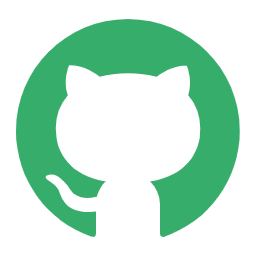
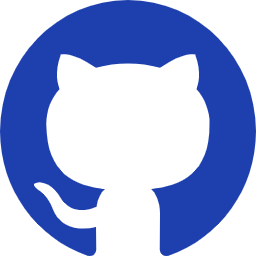
feat: 添加主题切换功能并更新UI样式
为应用添加主题切换功能，包括默认主题配置和主题切换逻辑
更新全局样式和组件颜色以匹配新主题
添加设置存储用于管理主题偏好

diff --git a/src/assets/themes/default.ts b/src/assets/themes/default.ts
@@ -1,0 +1,275 @@
+import type { GlobalThemeOverrides } from 'naive-ui'
+
+const themeOverrides: GlobalThemeOverrides = {
+  common: {
+    primaryColor: '#1E40AF',
+    primaryColorHover: '#1D4ED8',
+    primaryColorPressed: '#1E3A8A',
+    successColor: '#16A34A',
+    warningColor: '#D97706',
+    errorColor: '#DC2626',
+    infoColor: '#0EA5E9',
+
+    baseColor: '#F9FAFB',
+    bodyColor: '#F3F4F6',
+    cardColor: '#FFFFFF',
+    modalColor: '#FFFFFF',
+    popoverColor: '#FFFFFF',
+    tableColor: '#FFFFFF',
+    inputColor: '#FFFFFF',
+
+    textColorBase: '#111827',
+    textColor1: '#1F2937',
+    textColor2: '#374151',
+    textColor3: '#6B7280',
+    placeholderColor: '#9CA3AF',
+
+    dividerColor: '#E5E7EB',
+    borderColor: '#D1D5DB',
+    scrollbarColor: '#9CA3AF',
+    scrollbarColorHover: '#6B7280'
+  },
+
+  Button: {
+    textColor: '#374151',
+    textColorHover: '#374151',
+    textColorPressed: '#374151',
+    textColorDisabled: '#374151',
+    colorPrimary: '#1E40AF',
+    colorHoverPrimary: '#1D4ED8',
+    colorPressedPrimary: '#1E3A8A',
+    colorDisabled: '#9CA3AF',
+    borderRadius: '6px'
+  },
+
+  Card: {
+    color: '#FFFFFF',
+    textColor: '#374151',
+    titleTextColor: '#1F2937',
+    borderColor: '#E5E7EB'
+  },
+
+  Input: {
+    color: '#FFFFFF',
+    textColor: '#111827',
+    placeholderColor: '#9CA3AF',
+    borderColor: '#D1D5DB',
+    borderHoverColor: '#2563EB',
+    borderFocusColor: '#1E40AF'
+  },
+
+  Table: {
+    thColor: '#F3F4F6',
+    tdColor: '#FFFFFF',
+    borderColor: '#E5E7EB',
+    thTextColor: '#1F2937',
+    tdTextColor: '#374151'
+  },
+
+  Menu: {
+    itemColorActive: '#E0E7FF',
+    itemColorHover: '#F3F4F6',
+    itemTextColor: '#374151',
+    itemTextColorHover: '#1E40AF',
+    itemTextColorActive: '#1E40AF',
+    itemIconColor: '#6B7280',
+    itemIconColorActive: '#1E40AF'
+  },
+
+  Tabs: {
+    tabTextColorActive: '#1E40AF',
+    tabTextColorHover: '#2563EB',
+    tabTextColorDisabled: '#9CA3AF',
+    barColor: '#1E40AF'
+  },
+
+  Modal: {
+    color: '#FFFFFF',
+    textColor: '#374151',
+    titleTextColor: '#1F2937'
+  },
+
+  Notification: {
+    color: '#FFFFFF',
+    textColor: '#374151',
+    borderColor: '#E5E7EB'
+  },
+
+  Tag: {
+    color: '#E0E7FF',
+    textColor: '#1E40AF',
+    borderColor: '#C7D2FE'
+  },
+
+  Tooltip: {
+    color: '#111827',
+    textColor: '#FFFFFF'
+  },
+
+  Dropdown: {
+    color: '#FFFFFF',
+    optionTextColor: '#374151',
+    optionTextColorHover: '#1E40AF',
+    optionColorHover: '#F3F4F6'
+  },
+
+  Pagination: {
+    itemTextColor: '#374151',
+    itemTextColorActive: '#FFFFFF',
+    itemColorActive: '#1E40AF',
+    itemColorHover: '#F3F4F6'
+  },
+
+  Checkbox: {
+    colorChecked: '#1E40AF',
+    checkMarkColor: '#FFFFFF',
+    borderColor: '#D1D5DB',
+    textColor: '#374151'
+  },
+
+  Radio: {
+    colorChecked: '#1E40AF',
+    dotColorActive: '#FFFFFF',
+    borderColor: '#D1D5DB',
+    textColor: '#374151'
+  },
+
+  Switch: {
+    railColorActive: '#1E40AF',
+    railColor: '#D1D5DB',
+    buttonColorActive: '#FFFFFF',
+    buttonColor: '#FFFFFF'
+  },
+
+  Progress: {
+    color: '#1E40AF',
+    colorInfo: '#0EA5E9',
+    colorSuccess: '#16A34A',
+    colorWarning: '#D97706',
+    colorError: '#DC2626',
+    textColor: '#111827'
+  },
+
+  Select: {
+    color: '#FFFFFF',
+    optionTextColor: '#374151',
+    optionTextColorHover: '#1E40AF',
+    optionColorHover: '#F3F4F6'
+  },
+
+  DatePicker: {
+    panelColor: '#FFFFFF',
+    itemTextColor: '#374151',
+    itemTextColorActive: '#FFFFFF',
+    itemColorActive: '#1E40AF'
+  },
+
+  TimePicker: {
+    panelColor: '#FFFFFF',
+    itemTextColor: '#374151',
+    itemTextColorActive: '#FFFFFF',
+    itemColorActive: '#1E40AF'
+  },
+
+  Upload: {
+    draggerColor: '#F9FAFB',
+    draggerBorder: '#D1D5DB',
+    draggerTextColor: '#374151'
+  },
+
+  Steps: {
+    indicatorColorProcess: '#1E40AF',
+    indicatorColorWait: '#9CA3AF',
+    indicatorColorFinish: '#16A34A',
+    indicatorTextColorProcess: '#1E40AF',
+    indicatorTextColorWait: '#6B7280',
+    indicatorTextColorFinish: '#16A34A'
+  },
+
+  Drawer: {
+    color: '#FFFFFF',
+    textColor: '#374151',
+    titleTextColor: '#1F2937'
+  },
+
+  Message: {
+    color: '#FFFFFF',
+    textColor: '#374151',
+    borderColor: '#E5E7EB'
+  },
+
+  Popover: {
+    color: '#FFFFFF',
+    textColor: '#374151'
+  },
+
+  Badge: {
+    color: '#DC2626',
+    textColor: '#FFFFFF'
+  },
+
+  Avatar: {
+    color: '#1E40AF',
+    textColor: '#FFFFFF'
+  },
+
+  Skeleton: {
+    color: '#E5E7EB',
+    colorEnd: '#F3F4F6'
+  },
+
+  Spin: {
+    color: '#1E40AF'
+  },
+
+  Statistic: {
+    labelTextColor: '#6B7280',
+    valueTextColor: '#1F2937'
+  },
+
+  Timeline: {
+    titleTextColor: '#1F2937',
+    contentTextColor: '#374151',
+    indicatorColor: '#1E40AF'
+  },
+
+  Tree: {
+    nodeTextColor: '#374151',
+    nodeTextColorHover: '#1E40AF',
+    nodeColorHover: '#F3F4F6'
+  },
+
+  Collapse: {
+    titleTextColor: '#1F2937',
+    contentTextColor: '#374151',
+    borderColor: '#E5E7EB'
+  },
+
+  Descriptions: {
+    labelTextColor: '#6B7280',
+    contentTextColor: '#374151',
+    borderColor: '#E5E7EB'
+  },
+
+  Divider: {
+    color: '#E5E7EB'
+  },
+
+  Empty: {
+    textColor: '#9CA3AF'
+  },
+
+  Result: {
+    titleTextColor: '#1F2937',
+    descriptionTextColor: '#374151',
+    iconColor: '#1E40AF'
+  },
+
+  LoadingBar: {
+    colorLoading: '#1E40AF',
+    colorError: 'red',
+    height: '30px'
+  }
+}
+
+export default themeOverrides

diff --git a/src/App.vue b/src/App.vue
@@ -1,9 +1,24 @@
 <template>
-  <n-config-provider style="width: 100%; height: 100%">
+  <n-config-provider style="width: 100%; height: 100%" :theme-overrides="theme">
     <RouterView />
+    <n-global-style />
   </n-config-provider>
 </template>
 
-<script setup lang="ts"></script>
+<script setup lang="ts">
+import defaultTheme from '@/assets/themes/default'
+const settingsStore = useSettingsStore()
+
+const theme = computed(() => getTheme(settingsStore.theme))
+
+const getTheme = (themeName: string) => {
+  switch (themeName) {
+    case 'defaultTheme':
+      return defaultTheme
+    default:
+      return defaultTheme
+  }
+}
+</script>
 
 <style scoped></style>

diff --git a/src/utils/navie.ts b/src/utils/navie.ts
@@ -1,8 +1,17 @@
 import { createDiscreteApi } from 'naive-ui'
 
-export const {
-  message: $message,
-  dialog: $dialog,
-  notification: $notification,
-  loadingBar: $loadingBar,
-} = createDiscreteApi(['message', 'dialog', 'notification', 'loadingBar'])
+const { message, dialog, notification, loadingBar, modal } = createDiscreteApi([
+  'message',
+  'dialog',
+  'notification',
+  'loadingBar',
+  'modal'
+])
+
+export {
+  message as $message,
+  dialog as $dialog,
+  notification as $notification,
+  loadingBar as $loadingBar,
+  modal as $modal
+}

diff --git a/src/layouts/components/AppSidebar.vue b/src/layouts/components/AppSidebar.vue
@@ -112,14 +112,14 @@ function generateMenuFromParentName(routes: AppRouteRecordRaw[]): MenuOption[] {
   display: flex;
   align-items: center;
   padding: 0 vv.$primary-padding;
-  box-shadow: 0px -30px 40px #0000008c;
+  box-shadow: 0px -30px 40px #000000cc;
 
   img {
     height: 70%;
   }
 
   h2 {
-    color: #36ad6a;
+    color: #1e40af;
     letter-spacing: 0.5rem;
     text-decoration: underline;
   }

diff --git a/src/views/happy/Index.vue b/src/views/happy/Index.vue
@@ -20,8 +20,6 @@
 </template>
 
 <script lang="ts" setup>
-import { reactive } from 'vue'
-
 const rows = 8
 const cols = 8
 const bombsCount = 10
@@ -206,10 +204,12 @@ const resetGame = () => {
 
 .cell-unrevealed {
   background-color: #ddd;
+  color: black;
 }
 
 .cell-safe {
-  background-color: #b2f2bb;
+  background-color: #1d4fd8a8;
+  color: rgb(255, 255, 255);
 }
 
 .cell-bomb {

diff --git a/src/assets/style/main.scss b/src/assets/style/main.scss
@@ -8,3 +8,12 @@ body,
   width: 100vw;
   height: 100vh;
 }
+.n-loading-bar-container .n-loading-bar.n-loading-bar--starting {
+  background-color: #1e40af;
+}
+.n-loading-bar-container .n-loading-bar.n-loading-bar--finishing {
+  background-color: #1e40af;
+}
+.n-loading-bar-container .n-loading-bar.n-loading-bar--error {
+  background-color: rgb(77, 77, 77);
+}

diff --git a/src/stores/settings.ts b/src/stores/settings.ts
@@ -1,0 +1,12 @@
+import { defineStore } from 'pinia'
+
+export const useSettingsStore = defineStore(
+  'setting',
+  () => {
+    const theme = ref<string>('default')
+    return { theme }
+  },
+  {
+    persist: true
+  }
+)

diff --git a/src/stores/auth.ts b/src/stores/auth.ts
@@ -1,4 +1,3 @@
-import { ref } from 'vue'
 import { defineStore } from 'pinia'
 
 export const useAuthStore = defineStore(
